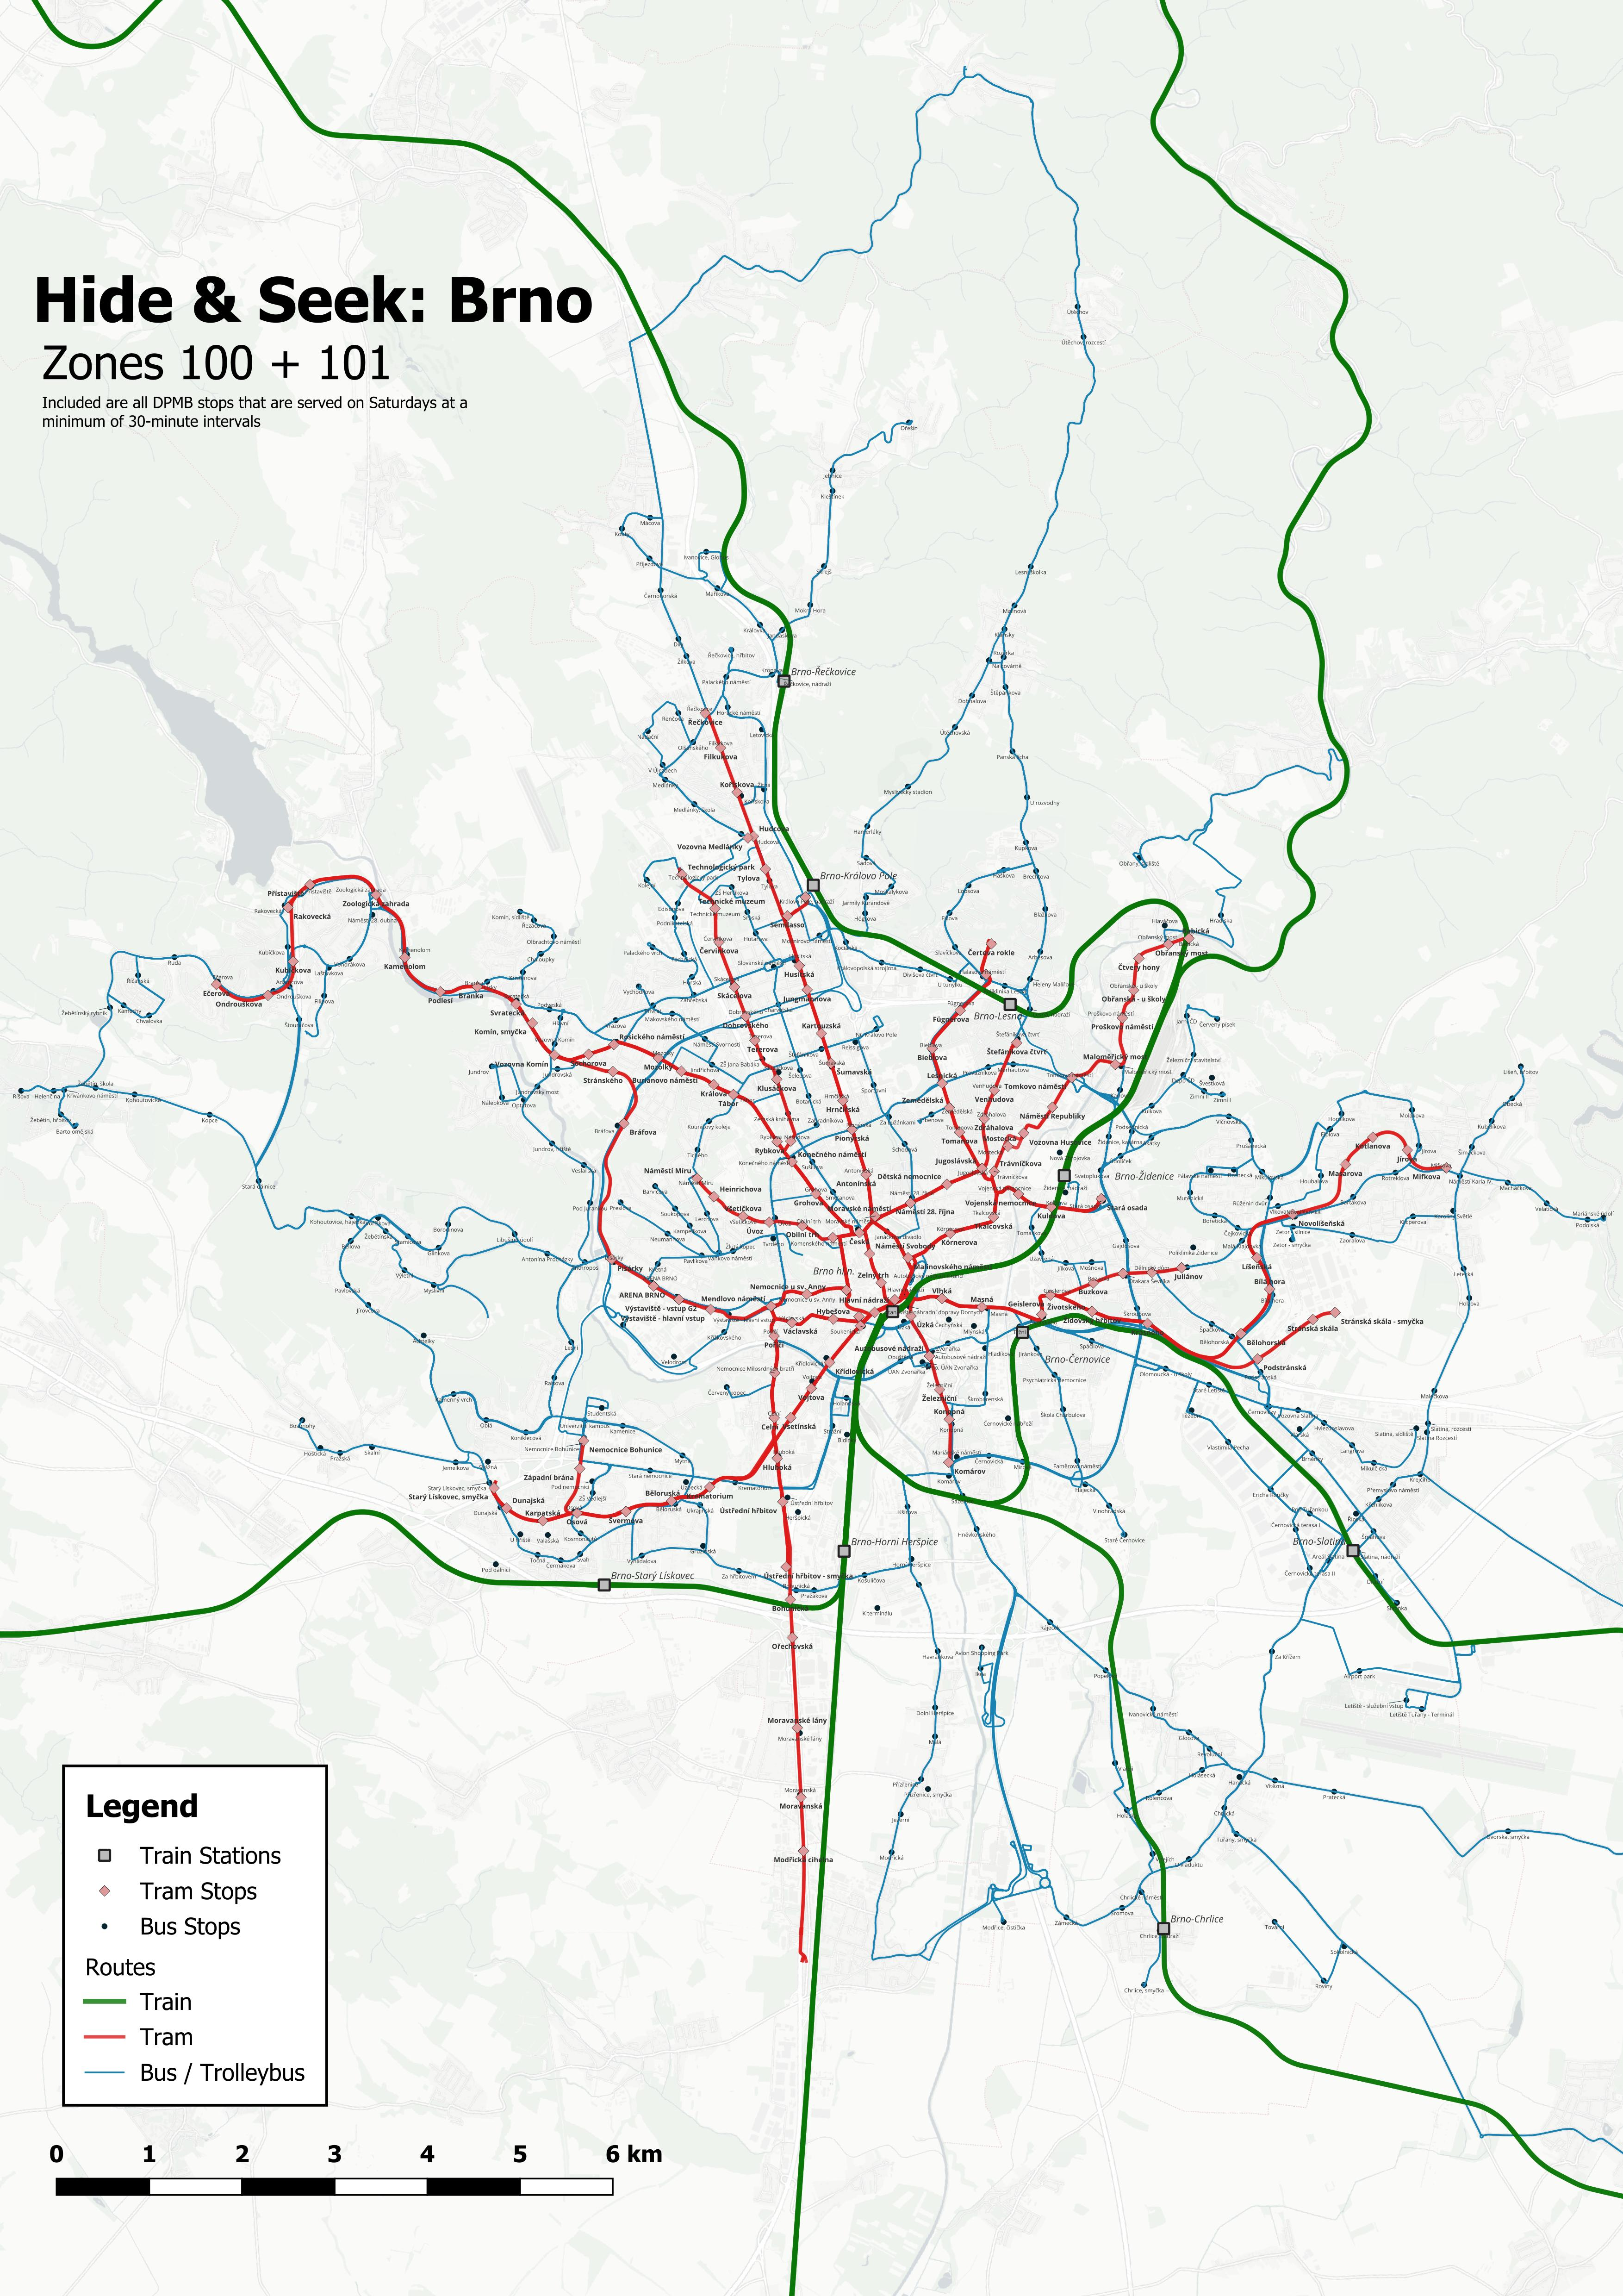
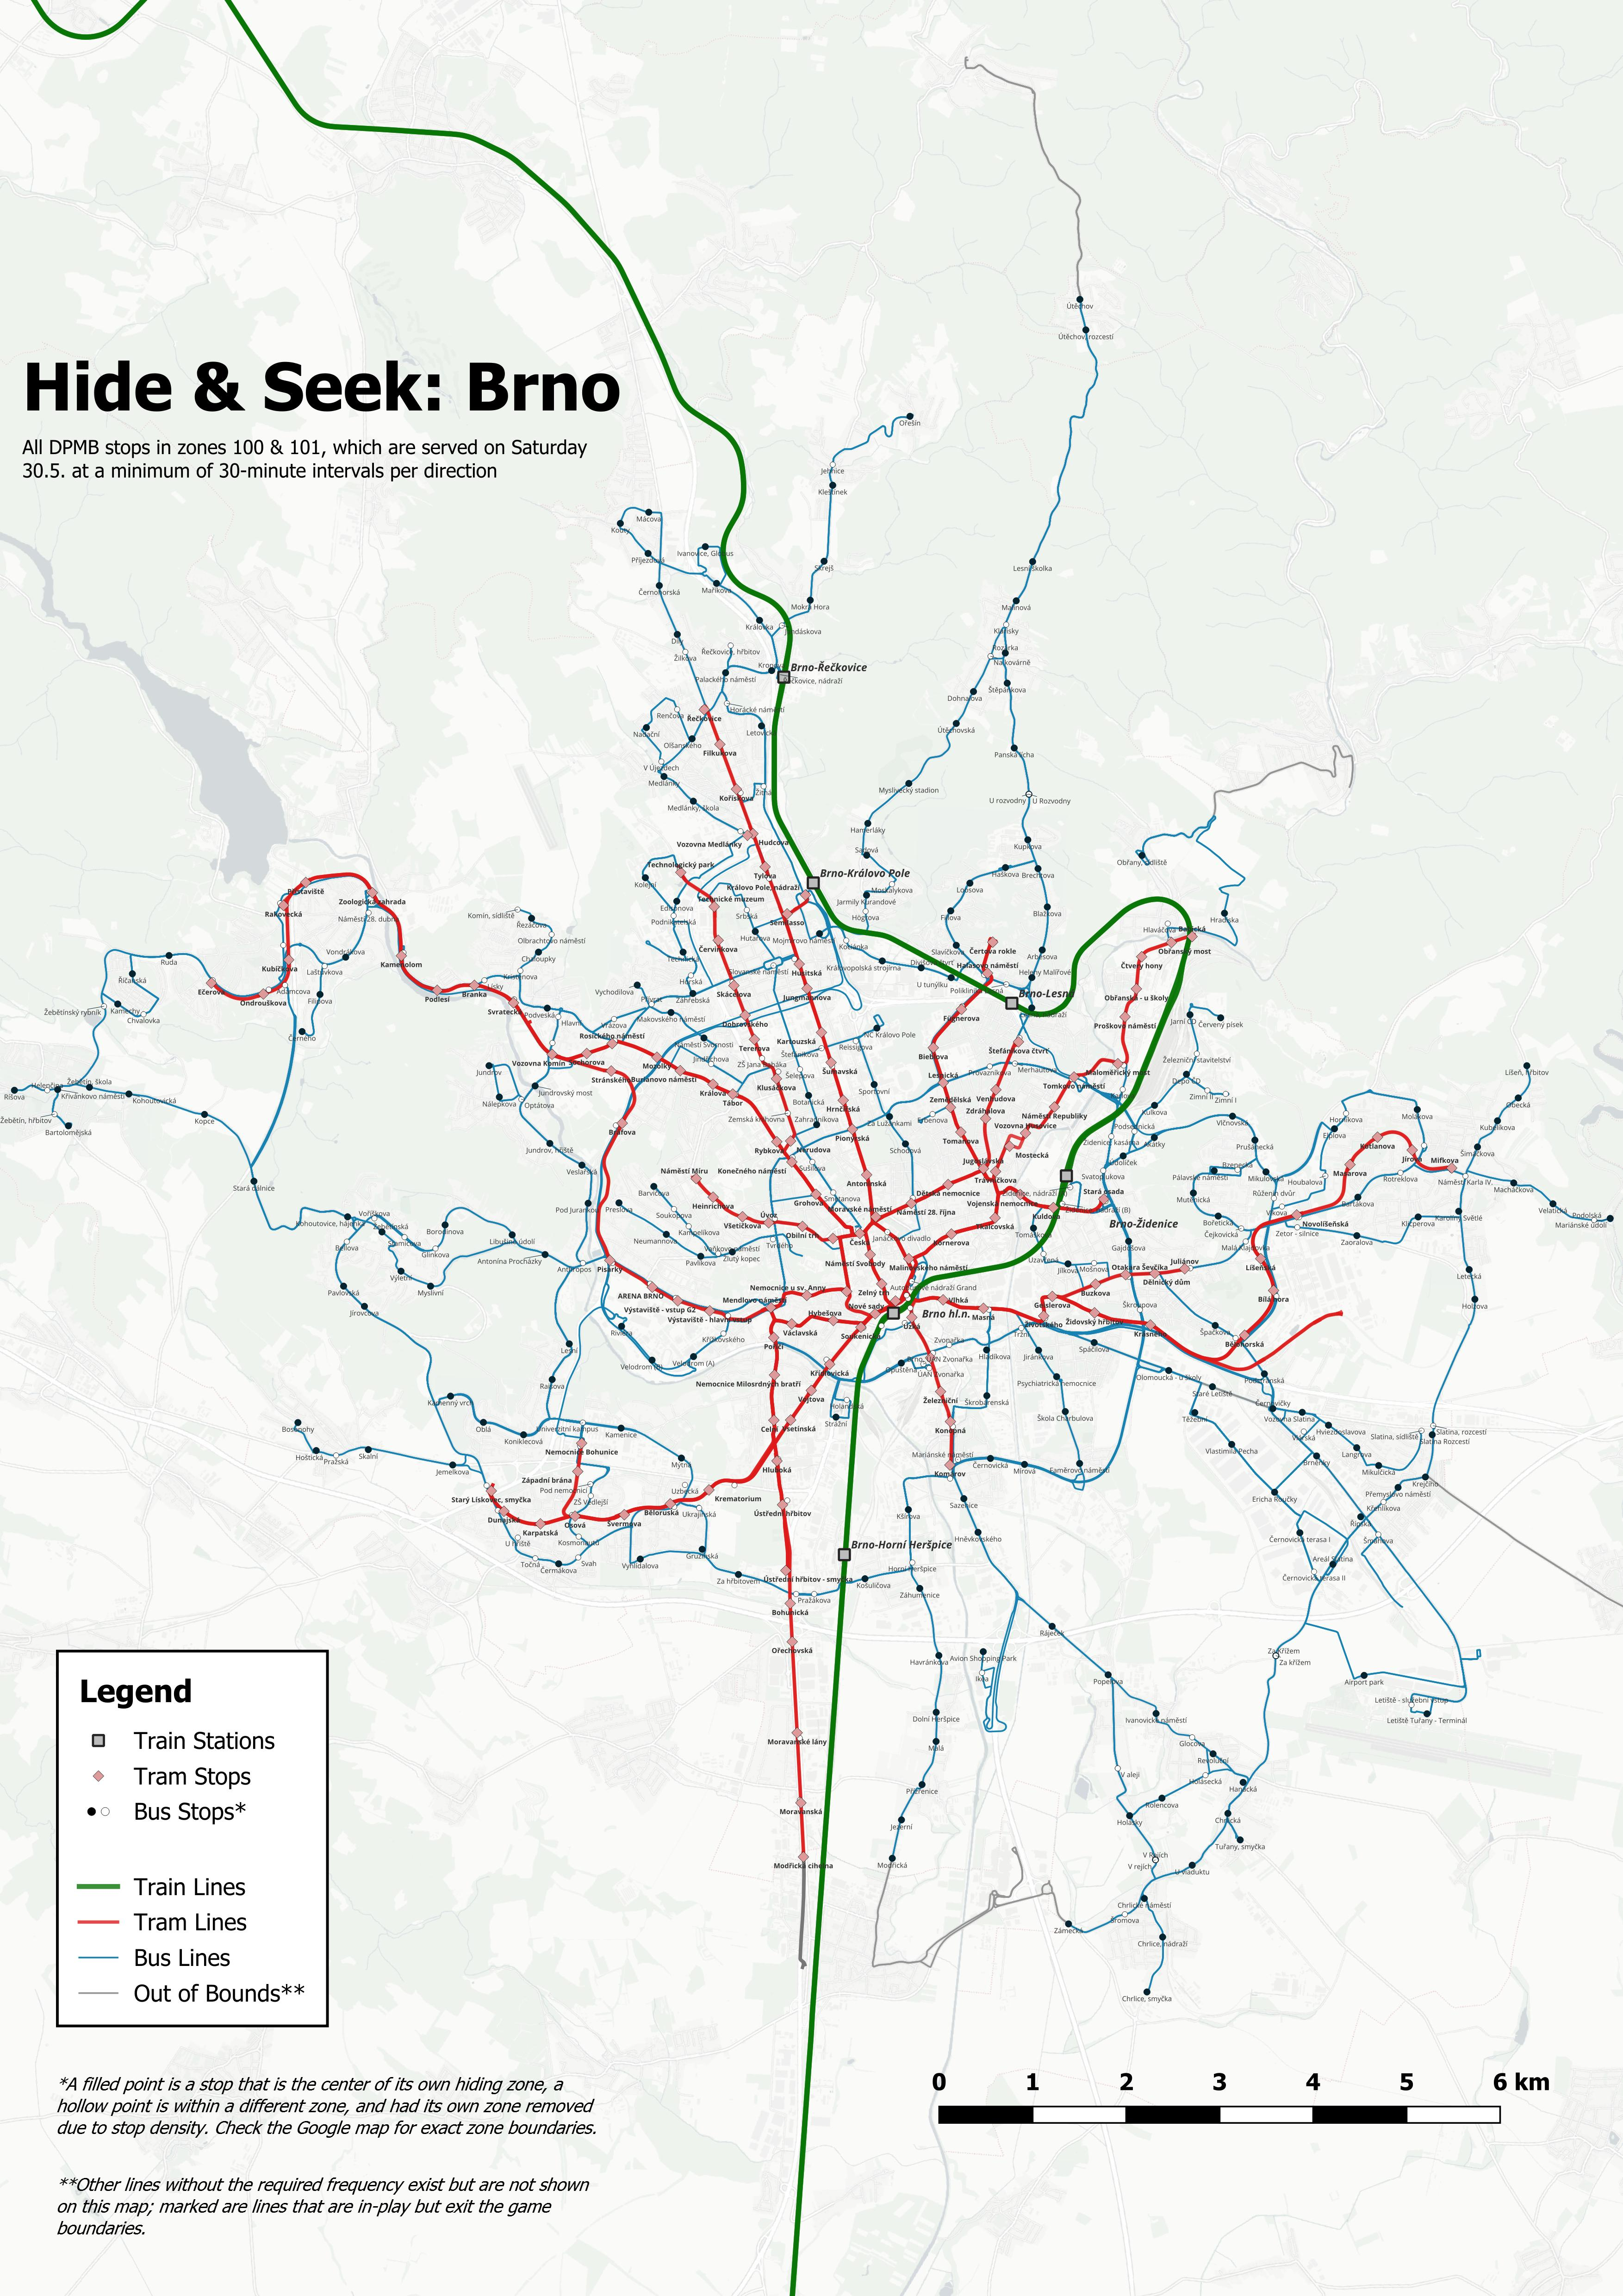
add Brno event details

diff --git a/src/lib/events/brno-2026-05-30.md b/src/lib/events/brno-2026-05-30.md
@@ -1,0 +1,29 @@
+![Brno Cityscape](brno.jpg)
+
+Join us on Saturday, May 30, 2026 for a Hide + Seek game around Brno, the Czech Republic's second city.  With a dense, well-connected bus and tram network, expect a wide variety of options for hiding, from the center to outlying districts.
+
+### Getting There
+
+* **Meeting point:** We will meet at Česká stop, a major tram interchange just north of the old town.  Česká is easily reachable from the main train station, within minutes via tram, or 10-15 minutes' walk through the old town.
+* **Flights:** Brno airport (BRQ) is small and has limited flights, with several connections per week from London, Milan and Malaga via RyanAir.  However, it is also easily reachable from Vienna (VIE), Prague (PRG), and Bratislava (BTS) airports - there are direct buses to Brno from Vienna airport (~2:15), see below for connections from other cities.
+* **Trains:** Prague sits at or near the intersection of several major rail lines; it is easily reachable from Vienna and Bratislava (1:45 each), Prague (2:30), or Budapest (~4:00).
+* **Transit tickets:** The playing area corresponds to DPMB zones 100 + 101, the basic ticket type - a 24-hour pass can be bought from kiosks at some stations for 90 Kč (approx. 4 EUR), with a few accepting cards, and all buses and trams are equipped with tap-to-pay card terminals as well, which cap charges at the same amount.
+
+### Game Info & Map
+
+* **Format:** Standard Hide + Seek rules with a medium metric setup.
+* **Playable area:** The map covers bus, tram and train stations within DPMB zones 100 + 101, which are served by at least 4 departures an hour during the entire game day (approx. 7:30 AM - 7:30 PM).  *Note: due to the density of stops, not all stops in play are the center of their respective hiding zones, and some have been removed to reduce overlap - check the interactive map below for the single source of truth for exact bounds of hiding zones.*
+* **Hiding radius:** 400 m around the chosen station.
+* **Paper map:** Below is the draft paper map, a copy of which will be provided to each player:
+![Brno paper gameplay map](brno-map.jpg)
+* **Interactive map of hiding zones:** Check out the embedded map below, or open the full version [here](https://www.google.com/maps/d/u/2/edit?mid=10sap42BJU3w0qkM9oDWKmE3tSSRniHQ&usp=sharing).
+
+### About Brno
+
+Brno is a medium-sized city of about 300k, with comprehensive, frequent transit connections via 12 tram lines, numerous bus lines, and commuter rail lines (only one of which is in play due to frequency).  Outside of the dense, walkable historic old town, a variety of settings from housing estates and quieter suburbs to scenic natural areas are quickly accessible, giving hiders a number of options for picking spots.
+
+Apart from the standard H&S packing list (water, power bank, comfortable clothing and shoes), it is recommended to download the [iDOS](https://idos.cz/en/vlakyautobusymhdvse/spojeni/) application on your phone - this is the comprehensive transit planner app used for both local and long-distance connections across the Czech Republic and beyond, and gives information on connections, timetables, and live-updates on any transit delays.  You can download it here for [Android](https://play.google.com/store/apps/details?id=cz.mafra.jizdnirady&hl=en) or [iOS](https://apps.apple.com/us/app/j%C3%ADzdn%C3%AD-%C5%99%C3%A1dy-idos/id473503749).
+
+With the use of a paper map, players might also find it handy to bring pencils, rulers, compasses, and any other drawing tools to help eliminate zones.
+
+If you have some time to stay outside of the game, there is much to see in and around Brno - the city contains sights such as the Saints Peter and Paul Cathedral, Špilberk castle, Saint Jacob's Ossuary, the water reservoirs under Žlutý Kopec, and Villa Tugendhat, an iconic symbol of modernist architecture, which is a UNESCO World Heritage Site (the interior of which is not accessible without a tour, which tend to be booked months in advance, but the gardens and basement of which can be visited via the neighboring Villa Löw-Beer for a small entry fee).  Outside of the city, there are additional sights in the area, such as the Veveří Castle (accessible via bus, or by ferry across the Brno dam), the Moravian Karst natural area (in particular Punkva cave and Macocha abyss), the Pálava wine region south of Brno, and Lednice Chateau, another UNESCO World Heritage site.